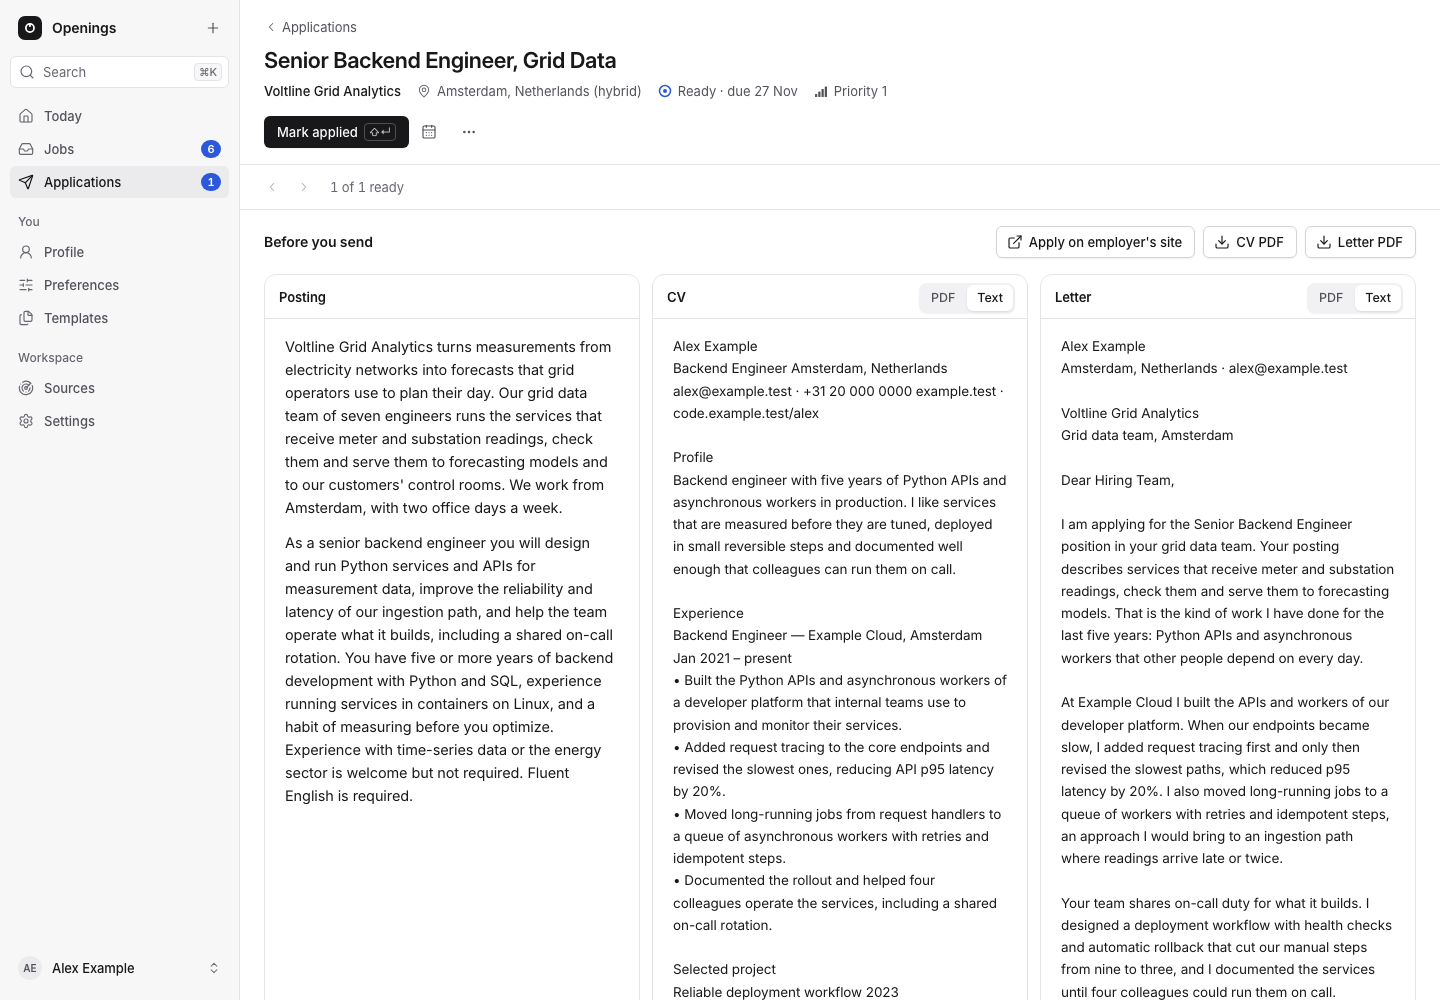
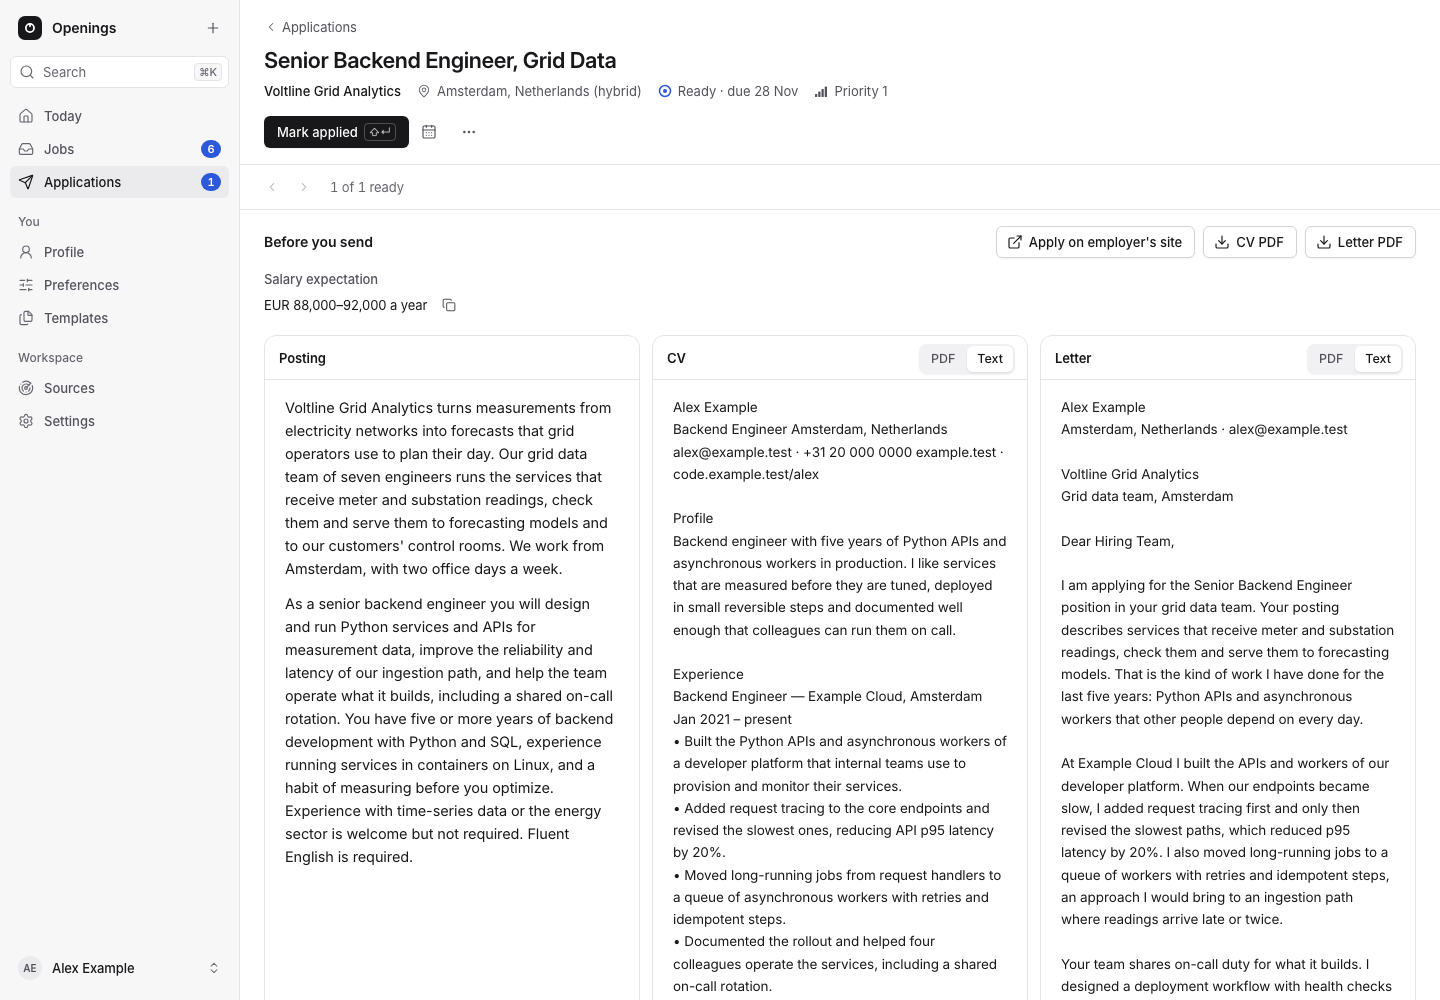
Show the salary expectation on the Ready page
Before you send lists it with a Copy button, for the form that asks. The demo
workspace's Ready application has one, so the screenshots show it.

Refs #348

diff --git a/frontend/src/screens/application/Ready.tsx b/frontend/src/screens/application/Ready.tsx
@@ -3,6 +3,7 @@ import {
   CalendarDays,
   ChevronLeft,
   ChevronRight,
+  Copy,
   Download,
   ExternalLink,
 } from "lucide-react";
@@ -30,7 +31,7 @@ import {
   type Kind,
 } from "./Documents";
 import type { PageContext } from "./Page";
-import { Answers, PostingText, Requirements } from "./Sections";
+import { Answers, PostingText, Requirements, useCopy } from "./Sections";
 
 type Pane = "check" | "posting" | Kind;
 /**
@@ -99,6 +100,23 @@ function QueuePlace({ queue, id }: { queue: ApplicationRow[]; id: string }) {
   );
 }
 
+/** The salary expectation to state when the employer asks, with Copy. */
+function Salary({ value }: { value: string }) {
+  const copy = useCopy();
+  return (
+    <p className="apg-salary">
+      <span>{value}</span>
+      <IconButton
+        icon={Copy}
+        size="sm"
+        label="Copy the salary expectation"
+        tooltip="none"
+        onClick={() => void copy(value, "the salary expectation")}
+      />
+    </p>
+  );
+}
+
 /** Mark applied, with the day it was sent (today unless changed). */
 function MarkApplied({
   busy,
@@ -155,8 +173,9 @@ function MarkApplied({
 }
 
 /**
- * Ready: the last check, then send and go on. Before you send (open
- * requirements, the form's answers, the employer's site, both PDFs), then
+ * Ready: the last check, then send and go on. Before you send (the salary
+ * expectation, open requirements, the form's answers, the employer's site,
+ * both PDFs), then
  * posting, CV and letter side by side. Mark applied (⇧↵) opens the next
  * Ready application; [ and ] move in the queue.
  */
@@ -272,6 +291,12 @@ export function ReadyView({
             Nothing open. Download the PDFs and apply on the employer's site.
           </p>
         )}
+      {app.salary && (
+        <div className="apg-check-part">
+          <h3 className="ap-sub-title">Salary expectation</h3>
+          <Salary value={app.salary} />
+        </div>
+      )}
       {open.length > 0 && (
         <div className="apg-check-part">
           <h3 className="ap-sub-title">Open requirements</h3>

diff --git a/frontend/tests/applications.spec.ts b/frontend/tests/applications.spec.ts
@@ -165,8 +165,13 @@ test("without LaTeX: a PDF CV and letter uploaded on the page make it Ready", as
   page,
 }) => {
   const title = unique("PDF only");
-  const app = await make(page, title);
-  expect(app.missing).toEqual(["cv", "letter"]);
+  const made = await make(page, title);
+  expect(made.missing).toEqual(["cv", "letter"]);
+  // The agent's salary expectation shows in Before you send.
+  const app = await call(page, `/applications/${made.id}`, "PATCH", {
+    expected_version: made.version,
+    salary: "CHF 98,000 a year",
+  });
   await go(page, `applications/${app.id}`);
   await expect(page.getByRole("heading", { name: "Documents" })).toBeVisible();
   for (const [name, file] of [
@@ -186,6 +191,9 @@ test("without LaTeX: a PDF CV and letter uploaded on the page make it Ready", as
   // Nothing is missing: the page is the Ready page.
   await expect(visible(page, "Mark applied")).toBeVisible();
   await expect(page.getByText("Before you send")).toBeAttached();
+  await expect(
+    page.locator(".apg-salary").filter({ hasText: "CHF 98,000 a year" }),
+  ).toBeAttached();
 });
 
 test("a shortlisted page says what is missing once, with one upload each and a requirement field on intent", async ({

diff --git a/frontend/src/screens/application/application.css b/frontend/src/screens/application/application.css
@@ -472,6 +472,17 @@
   .apg-check-part {
     grid-column: 1 / -1;
   }
+  .apg-salary {
+    display: flex;
+    align-items: flex-start;
+    gap: var(--s-2);
+    margin: 0;
+    font: var(--t-sm);
+    white-space: pre-wrap;
+  }
+  .apg-salary .ui-icon-btn {
+    margin-top: -5px;
+  }
   /* On a phone the check is a tab of its own: say when it has nothing. */
   .apg-check-none {
     grid-column: 1 / -1;

diff --git a/backend/tests/demo_workspace.py b/backend/tests/demo_workspace.py
@@ -637,7 +637,12 @@ def seed_demo(app, client):
     )
     with moment(days=5), acting_as(OWNER):
         ready = workspace.create_application(
-            {"job_id": voltline["id"], "priority": 1, "deadline": day(12)}
+            {
+                "job_id": voltline["id"],
+                "priority": 1,
+                "deadline": day(12),
+                "salary": "EUR 88,000–92,000 a year",
+            }
         )
     revisions(ready, voltline["company"], 1, letter=True)
     with moment(hours=20), acting_as(agent):

diff --git a/docs/user/applications.md b/docs/user/applications.md
@@ -60,8 +60,8 @@ head shows the role, company, stage, deadline and priority, **Open posting** and
   the Ready page.
 - **Ready:** the posting, CV and letter side by side, each document with a
   PDF/Text switch; on a phone, tabs **Check**, **Posting**, **CV**, **Letter**.
-  **Before you send** lists open requirements (tick them there), the form's
-  answers with copy buttons, **Apply on employer's site** and **Download CV +
+  **Before you send** lists the salary expectation your agent recorded, open
+  requirements (tick them there), the form's answers with copy buttons, **Apply on employer's site** and **Download CV +
   Letter**. The page shows its place in Today's order ("2 of 5 ready · Next: …");
   `[` and `]` move between them.
 - **Applied, Interview, Offer:** where it stands first ("Applied 12 Oct · no
